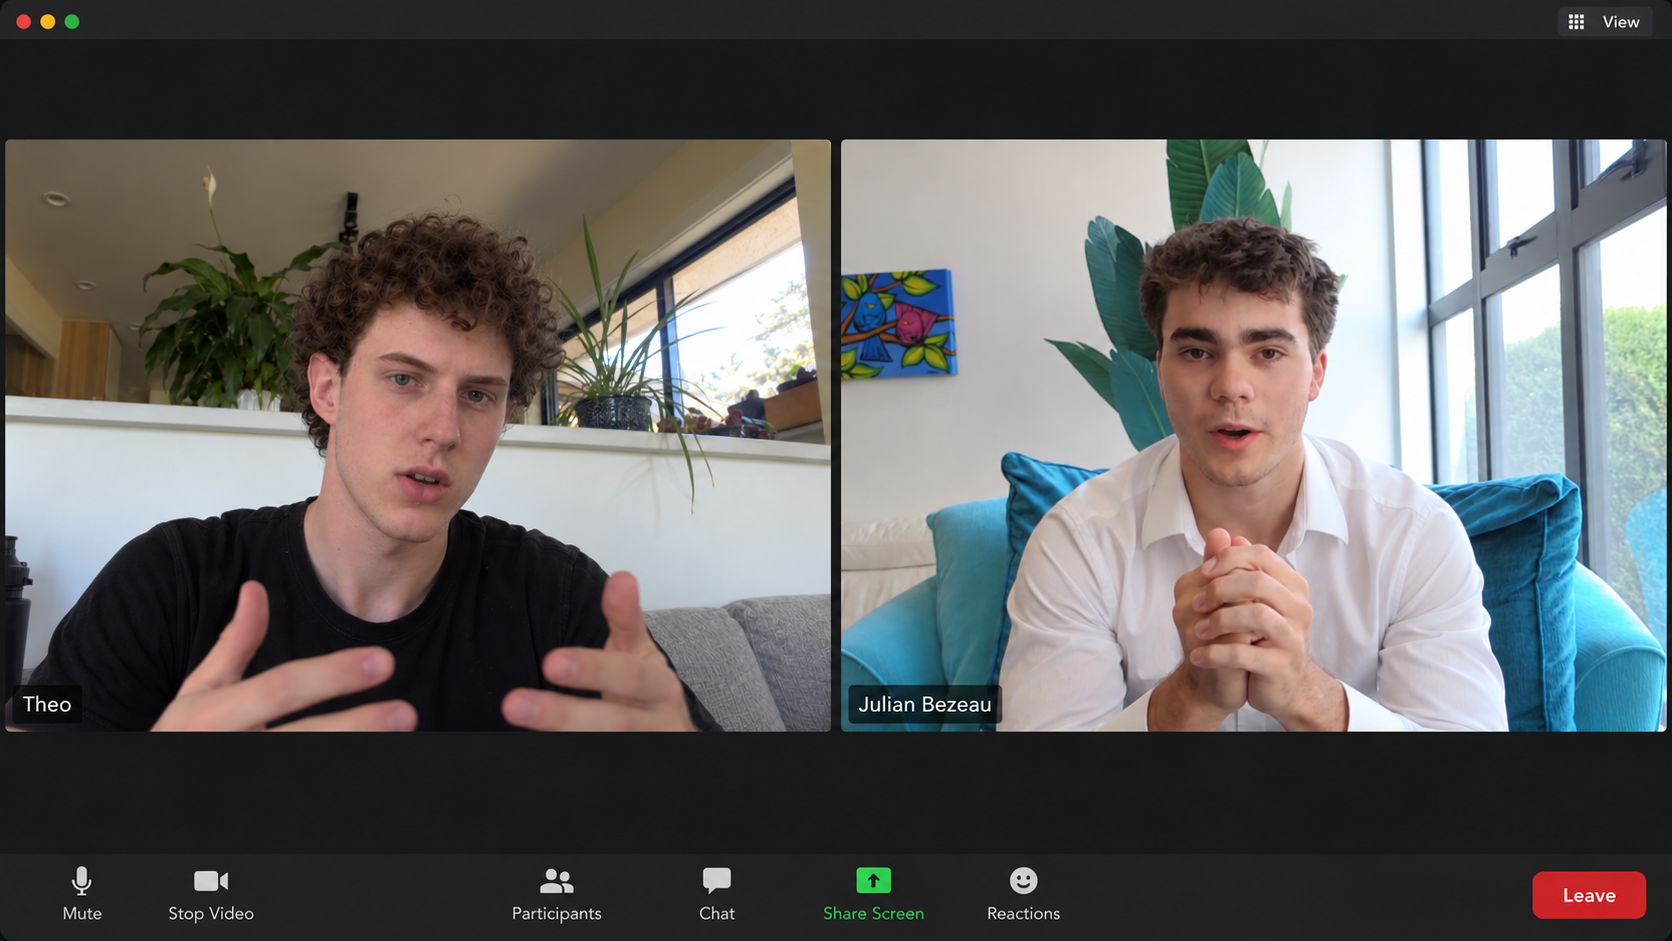
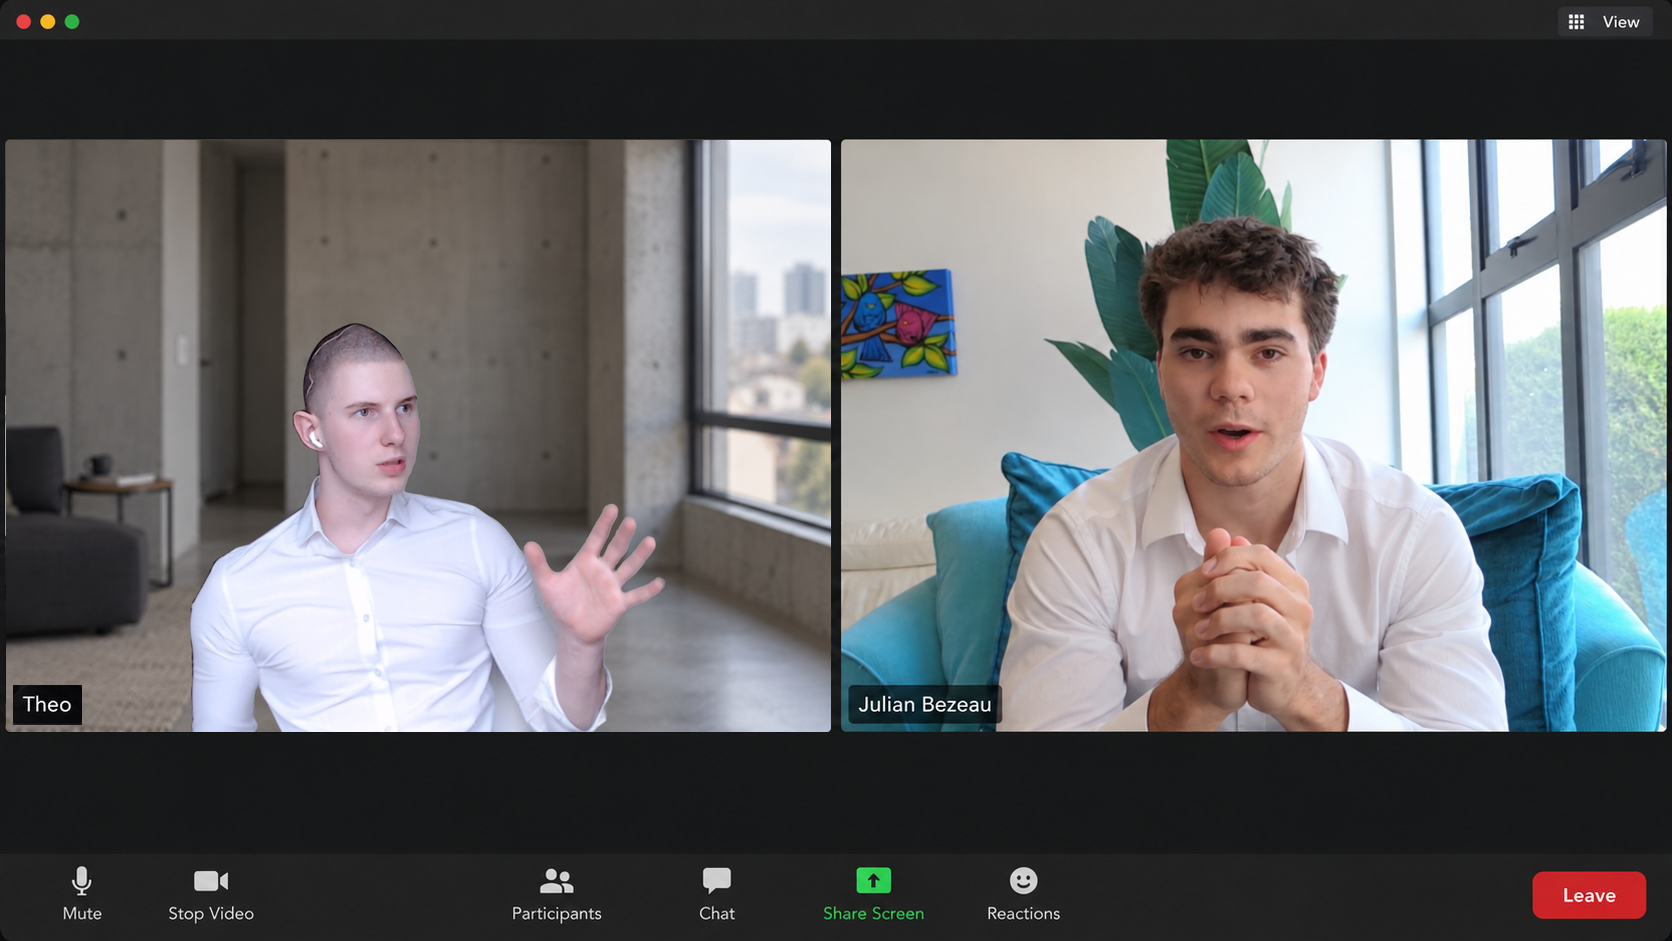
Update mentoring page with Theo's brutalist call portrait

Changed region(s): [[0.0, 0.1233, 0.4976, 0.8013]]

diff --git a/README.md b/README.md
@@ -49,9 +49,9 @@ site's bare routes. Keep offer/copy changes on a review branch until approved.
 - Load motion is CSS-only: one staggered fade/rise on each page load, a full-frame photo entrance and small hover-arrow movement. Everything settles in about1.25seconds. No motion library or JavaScript required. `prefers-reduced-motion` disables entrances/hover movement; keyboard focus immediately reveals the focused animated group. Keep the static final layout/content visible when animations are unavailable.
 - `ai-intensive/fonts/Manrope.ttf`: self-hosted variable font, no external font request. Original copyright and SIL OFL1.1 retained in `fonts/OFL.txt`. Source: [Google Fonts Manrope](https://github.com/google/fonts/tree/main/ofl/manrope).
 - `ai-intensive/logos/`: original official client assets hosted locally.
[2 lines of base64/hex data omitted]
 - `ai-intensive/images/orange-mentoring-background.jpg`: web-optimized derivative of one completed Higgsfield image, job `97ab4c12-93b9-4fd7-84d6-cd14ac73994c`, model `gpt_image_2_5`. Orange/apricot pigment and paper-grain background; no generated people. The generation quote was 0.25 credits; an actual debit was not separately checked.
-- `ai-intensive/og.png`: current 1200×630 social poster using the same supplied two-person image, current offer/price, no fixed workshop date.
+- `ai-intensive/og.png`: current 1200×630 social poster using the same October 9 call composite. Poster layout, text and other pixels outside the embedded call image are preserved. Current offer/price and no fixed workshop date are retained. This referenced social poster is included in the deployed static assets.
 - Education link in `/services` points here; sitemap includes the route.
 
 **Current published offer:** four weeks of private guided implementation,
